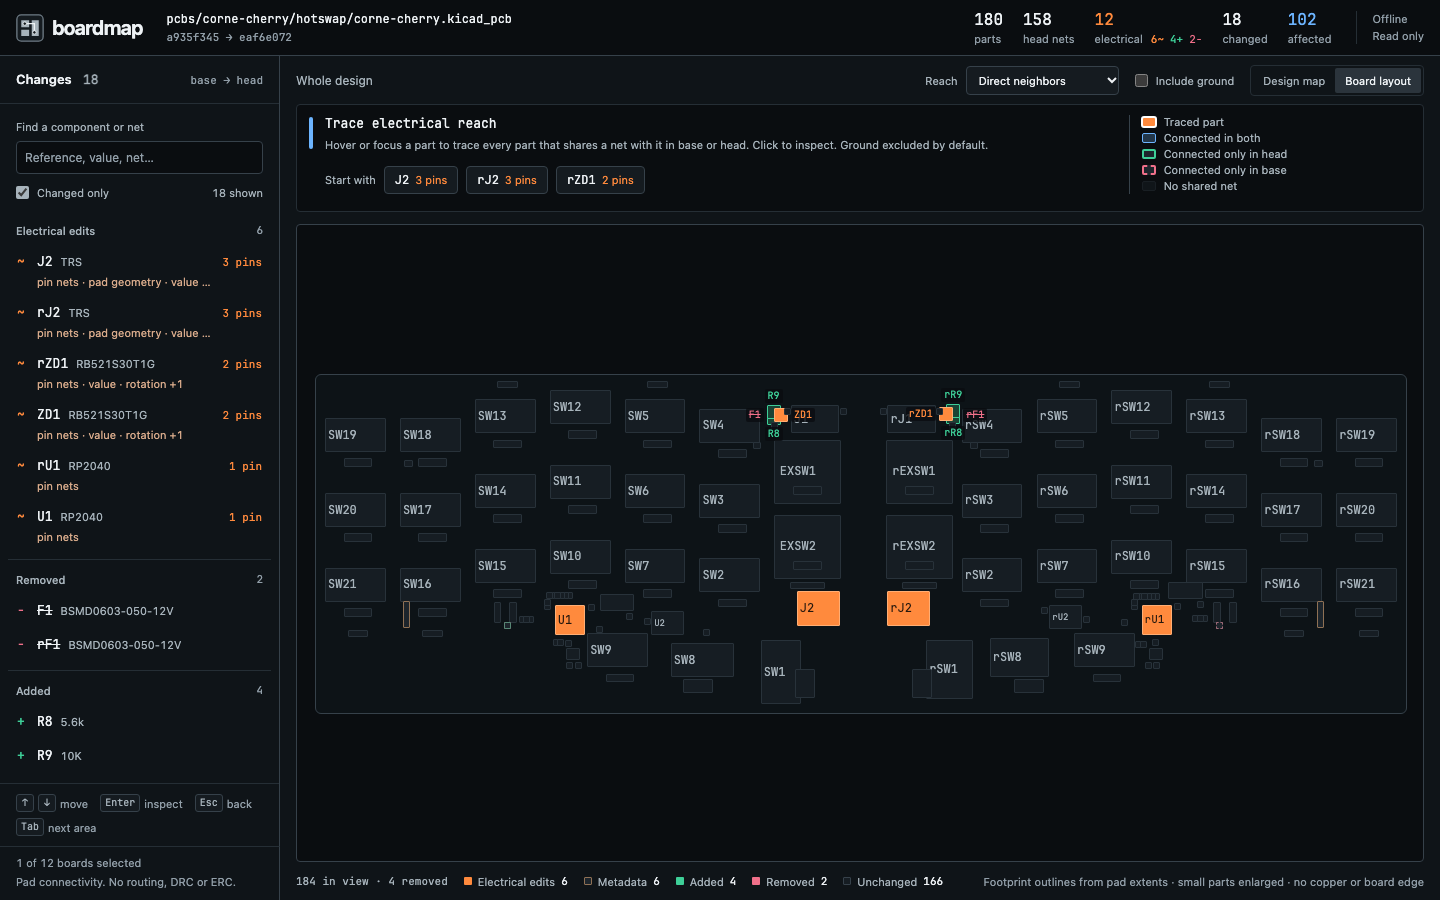
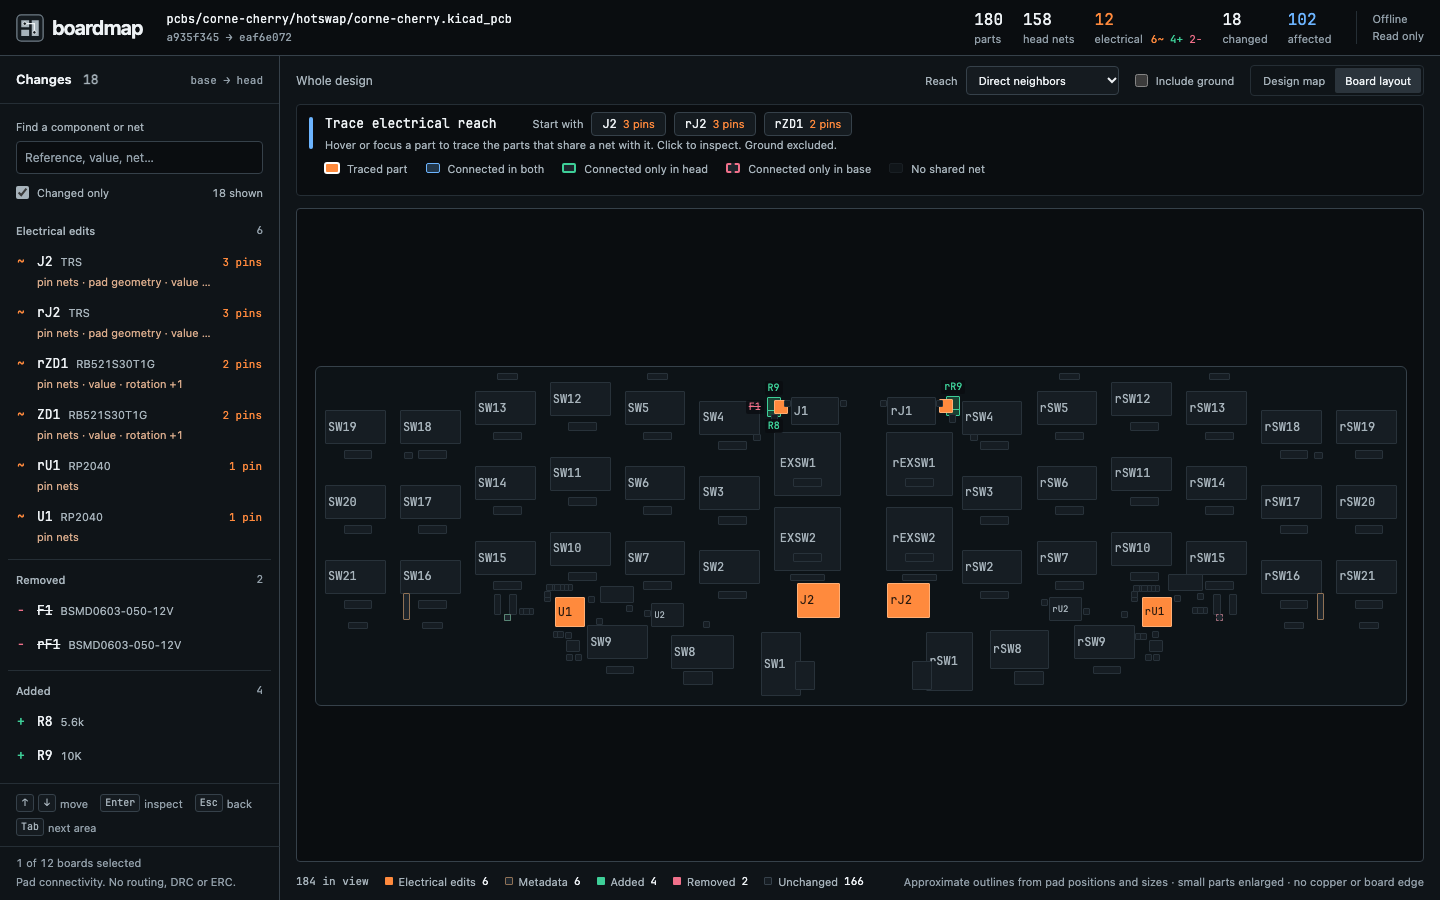
Capture the phone board view

diff --git a/docs/media/ui/README.md b/docs/media/ui/README.md
@@ -19,7 +19,7 @@ Actual Chromium captures of the running UI on the pinned HackRF PR 1411 and Corn
 | `sidebar/list-phone.png` | 390 × 844 | The expanded phone list uses the same two-line rows and takes most of the screen. |
 | `board/hackrf/board.png`, `board/corne/board.png` | 1440 × 900 | Board layout draws each footprint outline from its pad extents inside a bounding frame. Electrical changes sit on top and carry their references. |
 | `board/hackrf/board-reach.png`, `board/corne/board-reach.png` | 1440 × 900 | A trace in Board layout. |
-| `board/hackrf/board-phone.png` | 390 × 844 | The same view on a phone. |
+| `board/hackrf/board-phone.png`, `board/corne/board-phone.png` | 390 × 844 | The same view on a phone. The canvas takes the board's shape, so Corne's wide board is not left in a strip of empty canvas. |
 | `polish/corne-map.png` | 1440 × 900 | The Metadata legend swatch matches the metadata tiles, and the narrow Root sheet header shows its whole name. |
 | `counts/hackrf-map.png`, `counts/corne-map.png` | 1440 × 900 | The header shows 105 electrical as 67 edits, 9 added and 29 removed, the same three numbers as the legend. Each sheet header splits its count the same way. |
 | `layout/phone-diff.png` | 390 × 844 | A part diff on a phone. |
